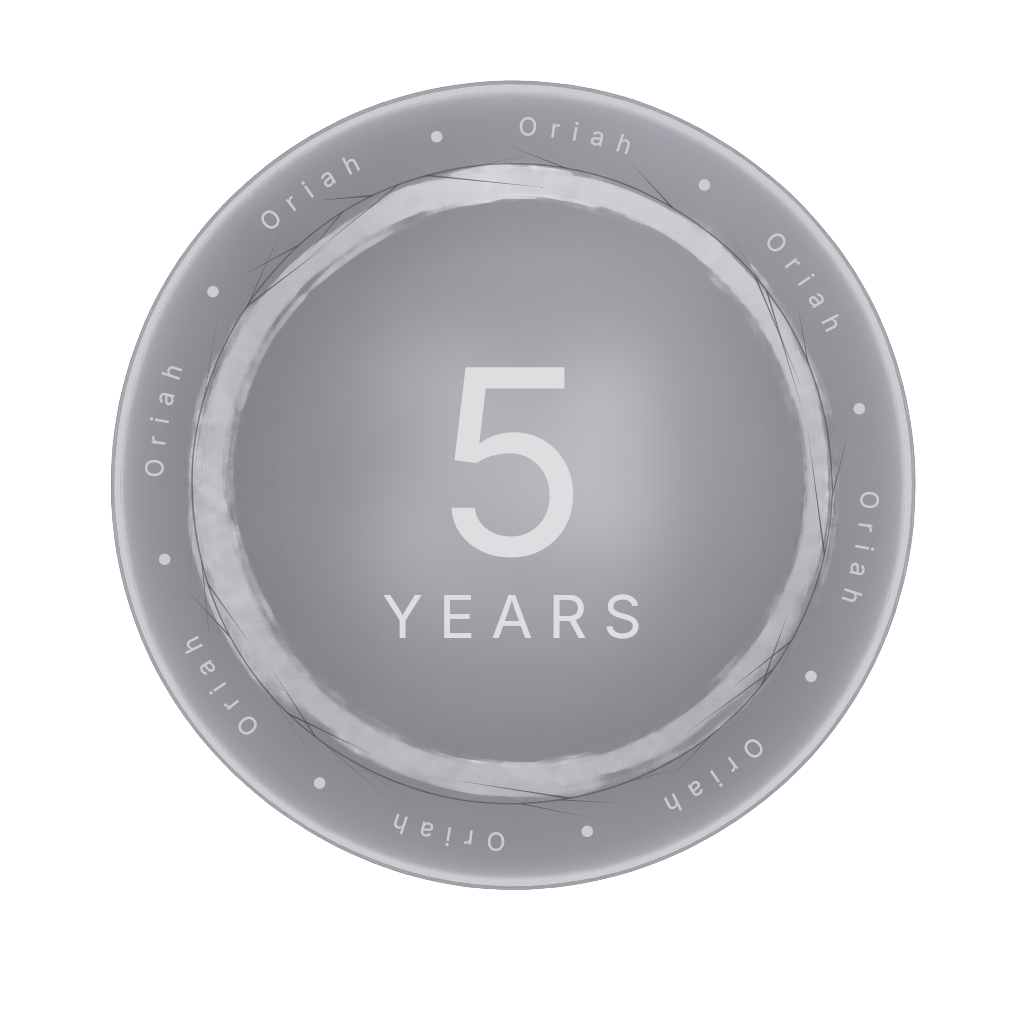
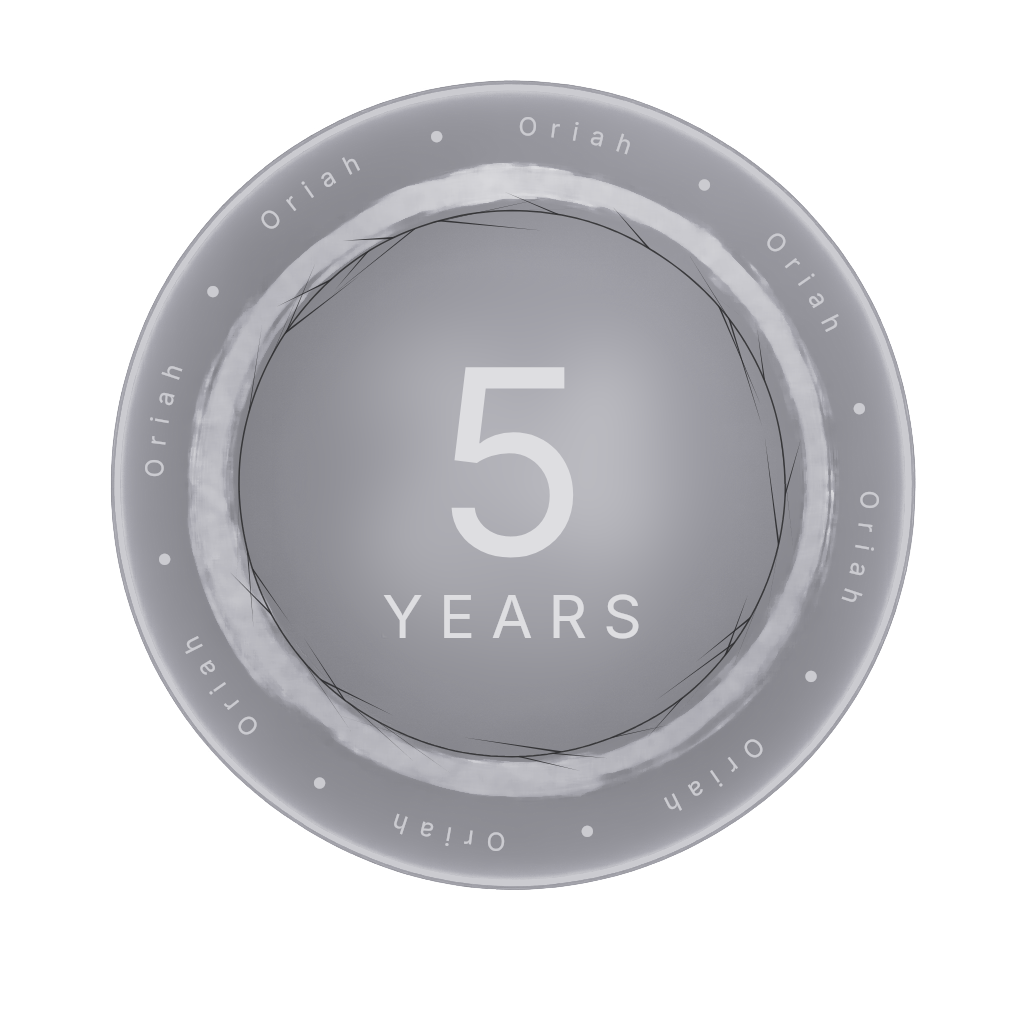
Oriah preview v6: branch on inner smudge band + high-contrast adaptive thorns

diff --git a/oriah-badges-staging/scripts/generate-oriah-badges.ts b/oriah-badges-staging/scripts/generate-oriah-badges.ts
@@ -378,29 +378,30 @@ function drawMicroTypography(ctx: SKRSContext2D, hex: string) {
 // with thorns spiking out across the ring's brushwork so the crown reads
 // as part of the chrome ring itself rather than a separate inner element.
 function drawCrownOfThorns(ctx: SKRSContext2D, hex: string) {
-  // Branch sits at the chrome ring's centerline (~r=320, mid-band).
-  const branchR = 320
+  // Branch sits on the chrome ring's INNER smudge band — the visible
+  // lighter brushwork ring just past the inner-disc edge.
+  const branchR = 273
 
-  // Adaptive thorn color: dark engraved tone for light badges (gold,
-  // silver), light raised tone for dark badges (forest, navy, indigo).
-  // Same lift either way so every coin reads with similar contrast.
+  // Adaptive thorn color tuned for pop: deep dark tone on light badges,
+  // bright lifted tone on dark badges, both with high alpha so the crown
+  // reads cleanly against every coin's base color.
   const [r, g, b] = hexToRgb(hex)
   const badgeLum = (r * 0.299 + g * 0.587 + b * 0.114) / 255
   let tr: number, tg: number, tb: number, strokeA: number, fillA: number
   if (badgeLum > 0.5) {
-    // Light badge — push toward black.
-    tr = Math.round(r * 0.45)
-    tg = Math.round(g * 0.45)
-    tb = Math.round(b * 0.45)
-    strokeA = 0.6
-    fillA = 0.7
+    // Light badge — push hard toward black for engraved contrast.
+    tr = Math.round(r * 0.25)
+    tg = Math.round(g * 0.25)
+    tb = Math.round(b * 0.25)
+    strokeA = 0.85
+    fillA = 0.9
   } else {
-    // Dark badge — push toward white.
-    tr = Math.round(r + (255 - r) * 0.55)
-    tg = Math.round(g + (255 - g) * 0.55)
-    tb = Math.round(b + (255 - b) * 0.55)
-    strokeA = 0.55
-    fillA = 0.65
+    // Dark badge — push hard toward white so the crown pops.
+    tr = Math.round(r + (255 - r) * 0.78)
+    tg = Math.round(g + (255 - g) * 0.78)
+    tb = Math.round(b + (255 - b) * 0.78)
+    strokeA = 0.8
+    fillA = 0.85
   }
   const stroke = `rgba(${tr}, ${tg}, ${tb}, ${strokeA})`
   const fill   = `rgba(${tr}, ${tg}, ${tb}, ${fillA})`
@@ -448,27 +449,27 @@ function drawCrownOfThorns(ctx: SKRSContext2D, hex: string) {
   }
 
   const thorns: Thorn[] = []
-  // Outward thorns — extend toward (but not past) the chrome ring outer edge.
-  // Branch at 320 + max 26 = 346 → still well inside the ring's outer edge (~370).
+  // Outward thorns — extend into the chrome ring's brushwork.
+  // Branch at 273 + max 24 = 297 → sits within the inner half of the ring.
   const N_OUT = 28
   for (let i = 0; i < N_OUT; i++) {
     const evenly = (i / N_OUT) * Math.PI * 2
     const jitter = (rand() - 0.5) * (Math.PI * 2 / N_OUT) * 0.7
     thorns.push({
       angle: evenly + jitter,
-      len: 14 + rand() * 12,    // 14–26 px
+      len: 14 + rand() * 10,    // 14–24 px
       side: 1,
       skew: skewed(),
       base: 2.4 + rand() * 1.0, // 2.4–3.4 px
     })
   }
-  // Inward thorns — branch at 320 - max 22 = 298 → stays inside chrome ring,
-  // doesn't poke into the inner disc area (which ends at ~r=265).
+  // Inward thorns — branch at 273 - max 18 = 255 → just nips into the
+  // inner disc edge, hugging the date area like a crown around a head.
   const N_IN = 14
   for (let i = 0; i < N_IN; i++) {
     thorns.push({
       angle: rand() * Math.PI * 2,
-      len: 12 + rand() * 10,    // 12–22 px
+      len: 10 + rand() * 8,     // 10–18 px
       side: -1,
       skew: skewed(),
       base: 2.0 + rand() * 0.9, // 2.0–2.9 px
